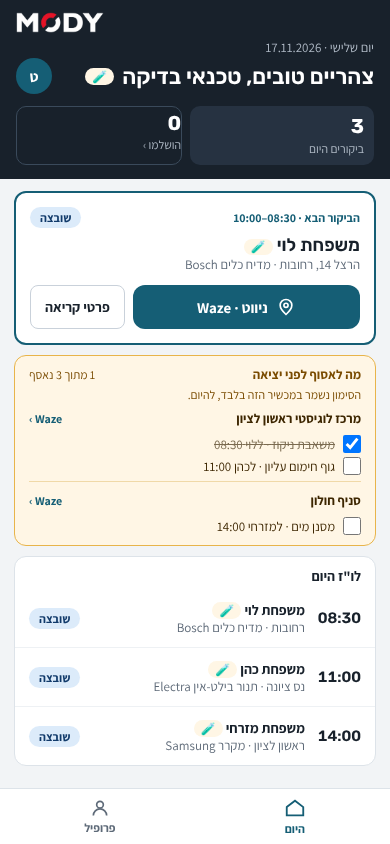
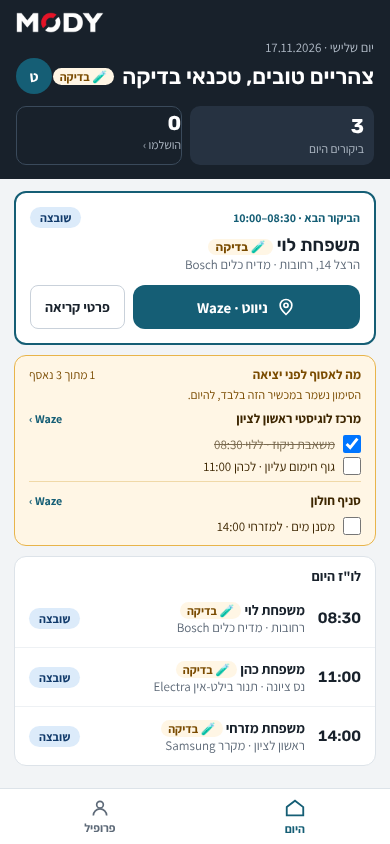
fix(tech): the test-data marker reads 'בדיקה' (owner feedback, QA T-06)
At a small size the icon-only 🧪 badge read as a pencil. TestPill
(components/ui/TestBadge.tsx) shows '🧪 בדיקה' with the accessible name
'נתוני בדיקה' and the same muted look; every technician screen uses it.
Screenshots retaken at 390 / 820 / 1440.

Claude-Session: https://claude.ai/code/session_01CCsEFqAXrUKXC3pfzB3yyJ

diff --git a/components/tech/DoneVisitView.tsx b/components/tech/DoneVisitView.tsx
@@ -1,6 +1,6 @@
 import type { ReactNode } from "react";
 import { StatusPill } from "@/components/ui/StatusPill";
-import { TEST_DATA_LABEL, TestBadge, VisitSourceLine } from "@/components/ui/TestBadge";
+import { TEST_DATA_LABEL, TestPill, VisitSourceLine } from "@/components/ui/TestBadge";
 import type { ClosedVisitDetail, MediaItem, MediaPhase } from "@/features/visits/data/types";
 import { VisitHeader } from "./VisitHeader";
 
@@ -56,7 +56,7 @@ export function DoneVisitHeader({
       title={visit.customer.name}
       trailing={
         <>
-          {visit.call.isTest && <TestBadge />}
+          {visit.call.isTest && <TestPill />}
           <StatusPill status={visit.status} />
         </>
       }
@@ -77,7 +77,7 @@ function MediaSection({ title, items }: { title: string; items: readonly MediaIt
               <span role="img" aria-label={m.isTest ? `${name} · ${TEST_DATA_LABEL}` : name} style={{ position: "absolute", inset: 0 }} />
               {m.isTest && (
                 <span aria-hidden="true" style={{ position: "absolute", bottom: 4, insetInlineStart: 4, lineHeight: 1 }}>
-                  <TestBadge />
+                  <TestPill />
                 </span>
               )}
             </div>
@@ -132,7 +132,7 @@ export function DoneVisitView({ visit, sync }: { visit: ClosedVisitDetail; sync?
             {p.isTest && (
               <>
                 {" "}
-                <TestBadge />
+                <TestPill />
               </>
             )}
           </span>
@@ -161,7 +161,7 @@ export function DoneVisitView({ visit, sync }: { visit: ClosedVisitDetail; sync?
               <span aria-hidden="true">🎙 </span>
               הקלטה <span className="num">{recordingLabel(rec)}</span>
             </span>
-            {visit.isTest && <TestBadge />}
+            {visit.isTest && <TestPill />}
             <span>· אי אפשר להשמיע אותה אחרי שהביקור נסגר בשרת</span>
           </div>
         )}

diff --git a/components/ui/TestBadge.tsx b/components/ui/TestBadge.tsx
@@ -17,6 +17,22 @@ export function TestBadge({ label = false }: { label?: boolean }) {
   );
 }
 
+/**
+ * The test-data pill (D47, SIM-15 to SIM-19; owner feedback 2026-11-17 on the technician home): at a
+ * small size the icon-only 🧪 badge read as a pencil (QA T-06), so the marker carries the word
+ * "בדיקה" after the 🧪. Screen readers hear "נתוני בדיקה" (the visible "בדיקה" plus a visually
+ * hidden "נתוני "), the tooltip says the same. Same muted look as TestBadge; any screen may use it.
+ */
+export function TestPill() {
+  return (
+    <span className="pill" title={TEST_DATA_LABEL} style={{ background: "var(--warn-bg)", color: "var(--warn-fg)", padding: "1px 7px", whiteSpace: "nowrap" }}>
+      <span aria-hidden="true">🧪 </span>
+      <span className="sr-only">נתוני </span>
+      בדיקה
+    </span>
+  );
+}
+
 /** The simulator's label (SIM-14), shared by visits and by received invitations. */
 const SIMULATOR_SOURCE_LABEL = "🧪 זימון בדיקה";
 

diff --git a/app/(tech)/tech/visit/[id]/page.tsx b/app/(tech)/tech/visit/[id]/page.tsx
@@ -7,7 +7,7 @@ import { VisitHistory } from "@/components/tech/VisitHistory";
 import { VisitInfoCard, VisitPickup, VisitProblem } from "@/components/tech/VisitInfo";
 import { PlaceWazeLink, VisitContactTiles } from "@/components/tech/VisitLinks";
 import { StatusPill } from "@/components/ui/StatusPill";
-import { TestBadge, VisitSourceLine } from "@/components/ui/TestBadge";
+import { TestPill, VisitSourceLine } from "@/components/ui/TestBadge";
 import { ddmm } from "@/features/calendar/data/dates";
 import { TECH_HOME_PATH } from "@/features/visits/data/paths";
 import type { VisitDetail } from "@/features/visits/data/types";
@@ -49,7 +49,7 @@ export default async function TechVisitPage({ params }: PageProps<"/tech/visit/[
   const title = visit.customer.name || `ביקור ${visit.n} · ${ddmm(visit.date)}`;
   const trailing = (
     <>
-      {visit.call.isTest && <TestBadge />}
+      {visit.call.isTest && <TestPill />}
       <StatusPill status={visit.status} />
     </>
   );

diff --git a/components/tech/VisitHistory.tsx b/components/tech/VisitHistory.tsx
@@ -1,5 +1,5 @@
 import { VISIT_STATUSES } from "@/components/ui/StatusPill";
-import { TestBadge } from "@/components/ui/TestBadge";
+import { TestPill } from "@/components/ui/TestBadge";
 import type { VisitHistoryItem } from "@/features/visits/data/types";
 
 // "↻ ביקור המשך" box on the technician visit card (docs/demo.html techCall() L519-524; TE-06).
@@ -66,7 +66,7 @@ export function VisitHistory({ items }: { items: readonly VisitHistoryItem[] }) 
             )}
             <div className="num" style={{ fontSize: 12, color: "var(--muted)", marginTop: 4, display: "flex", gap: 6, alignItems: "center" }}>
               {mediaLabel(h.media.length)}
-              {h.media.some((m) => m.isTest) && <TestBadge />}
+              {h.media.some((m) => m.isTest) && <TestPill />}
             </div>
             {h.media.length > 0 && (
               <div style={{ display: "flex", gap: 8, marginTop: 6, flexWrap: "wrap" }}>

diff --git a/components/tech/ProfileHeader.tsx b/components/tech/ProfileHeader.tsx
@@ -1,5 +1,5 @@
 import Link from "next/link";
-import { TestBadge } from "@/components/ui/TestBadge";
+import { TestPill } from "@/components/ui/TestBadge";
 import type { TechnicianProfile } from "@/features/profile/data/types";
 
 // Header of the technician's profile (docs/demo.html techProfile() head L684 and the "› חזרה"
@@ -40,7 +40,7 @@ export function ProfileHeader({ profile, backHref }: { profile: TechnicianProfil
         <div style={{ minWidth: 0 }}>
           <div style={{ display: "flex", alignItems: "center", gap: 8, flexWrap: "wrap" }}>
             <h1 style={{ fontSize: 22 }}>{t.name}</h1>
-            {profile.isTest && <TestBadge />}
+            {profile.isTest && <TestPill />}
           </div>
           <div className="sub" style={{ color: "var(--on-dark2)" }}>
             טכנאי שירות · <span dir="ltr">{t.phone}</span>

diff --git a/components/tech/MediaTiles.tsx b/components/tech/MediaTiles.tsx
@@ -7,7 +7,7 @@
 // placeholder. The demo's "+ דוגמה" tile is not part of the app (X-08). Test media carry the 🧪
 // badge (SIM-19).
 import { useEffect, useId, useRef, useState, type CSSProperties } from "react";
-import { TestBadge } from "@/components/ui/TestBadge";
+import { TestPill } from "@/components/ui/TestBadge";
 import { useCommands } from "@/features/data-access/commands-context";
 import type { MediaItem, MediaKind, MediaPhase, VisitRef } from "@/features/visits/data/types";
 import { MEDIA_PER_PHASE_MAX, type UpdateDraft } from "./WorkDraft";
@@ -73,7 +73,7 @@ function Thumb({
       </span>
       {item.isTest && (
         <span aria-hidden="true" style={{ position: "absolute", bottom: 4, insetInlineStart: 4, lineHeight: 1 }}>
-          <TestBadge />
+          <TestPill />
         </span>
       )}
       <button

diff --git a/components/tech/VisitInfo.tsx b/components/tech/VisitInfo.tsx
@@ -1,5 +1,5 @@
 import type { ReactNode } from "react";
-import { TestBadge } from "@/components/ui/TestBadge";
+import { TestPill } from "@/components/ui/TestBadge";
 import type { VisitDetail } from "@/features/visits/data/types";
 
 // Details of an open visit on the technician visit card (docs/demo.html techCall() L530-543).
@@ -75,7 +75,7 @@ export function VisitInfoCard({ visit }: { visit: VisitDetail }) {
           {cu.isTest && (
             <>
               {" "}
-              <TestBadge />
+              <TestPill />
             </>
           )}
         </span>
@@ -91,7 +91,7 @@ export function VisitInfoCard({ visit }: { visit: VisitDetail }) {
           {p.isTest && (
             <>
               {" "}
-              <TestBadge />
+              <TestPill />
             </>
           )}
         </span>

diff --git a/components/tech/TechStartHead.tsx b/components/tech/TechStartHead.tsx
@@ -1,5 +1,5 @@
 import Link from "next/link";
-import { TestBadge } from "@/components/ui/TestBadge";
+import { TestPill } from "@/components/ui/TestBadge";
 
 // The technician header of the temporary start screen and the minimal profile (Step 2 PR 2.3;
 // TEMPORARY, Step 2 plan Q18; AU-03, AU-04 PROPOSED): an optional "› חזרה" to the start screen, the
@@ -20,7 +20,7 @@ export function TechStartHead({ title, isTest, sub, backHref }: { title: string;
       )}
       <div style={{ display: "flex", alignItems: "center", gap: 8, flexWrap: "wrap", paddingTop: backHref ? 6 : 0 }}>
         <h1 style={{ fontSize: 22 }}>{title}</h1>
-        {isTest && <TestBadge />}
+        {isTest && <TestPill />}
       </div>
       {sub && (
         <div className="sub" style={{ color: "var(--on-dark2)" }}>

diff --git a/components/tech/CalendarDay.tsx b/components/tech/CalendarDay.tsx
@@ -1,6 +1,6 @@
 import Link from "next/link";
 import { VISIT_STATUSES } from "@/components/ui/StatusPill";
-import { TEST_DATA_LABEL, TestBadge } from "@/components/ui/TestBadge";
+import { TEST_DATA_LABEL, TestPill } from "@/components/ui/TestBadge";
 import type { CalendarVisit, TechWeek } from "@/features/calendar/data/types";
 import type { IsoDate } from "@/features/data-access/common";
 import { dayName, dayOfMonth, dayShort, ddmm, visitCountLabel } from "@/features/calendar/data/dates";
@@ -132,7 +132,7 @@ export function CalendarDayTimeline({
                   {v.isTest && (
                     <>
                       {" "}
-                      <TestBadge />
+                      <TestPill />
                     </>
                   )}
                 </b>

diff --git a/components/tech/SyncVisitPanel.tsx b/components/tech/SyncVisitPanel.tsx
@@ -1,4 +1,4 @@
-import { TestBadge } from "@/components/ui/TestBadge";
+import { TestPill } from "@/components/ui/TestBadge";
 import type { IsoTimestamp } from "@/features/data-access/common";
 import { DEVICE_SYNC_LABELS, type VisitDeviceSync } from "@/features/sync/data/types";
 import { attemptsLabel, itemsLabel, operationLabel, QUEUE_WARNING, queueItemRef, sizeLabel } from "./SyncLabels";
@@ -46,7 +46,7 @@ export function SyncVisitPanel({ sync, timeLabel }: { sync: VisitDeviceSync; tim
                       {op.isTest && (
                         <>
                           {" "}
-                          <TestBadge />
+                          <TestPill />
                         </>
                       )}
                       {size && (

diff --git a/components/tech/DoneList.tsx b/components/tech/DoneList.tsx
@@ -1,7 +1,7 @@
 import Link from "next/link";
 import type { ReactNode } from "react";
 import { StatusPill } from "@/components/ui/StatusPill";
-import { TestBadge } from "@/components/ui/TestBadge";
+import { TestPill } from "@/components/ui/TestBadge";
 import type { TechDayVisit } from "@/features/visits/data/types";
 
 // "הושלמו היום" (docs/demo.html techDoneList() L657-662; TE-26 CHANGE: same look, read-only, D14):
@@ -54,7 +54,7 @@ export function DoneList({ entries, pager }: { entries: readonly DoneListEntry[]
               {v.isTest && (
                 <>
                   {" "}
-                  <TestBadge />
+                  <TestPill />
                 </>
               )}
               <div className="sub">

diff --git a/components/tech/NotificationList.tsx b/components/tech/NotificationList.tsx
@@ -13,7 +13,7 @@
 // Presentational: the caller passes the DTOs with their links and formatted times.
 import Link from "next/link";
 import { useId, type ReactNode } from "react";
-import { TestBadge } from "@/components/ui/TestBadge";
+import { TestPill } from "@/components/ui/TestBadge";
 import type { AppNotification, NotificationKind } from "@/features/notifications/data/types";
 import { useNotificationState } from "./NotificationState";
 
@@ -51,7 +51,7 @@ function NotificationItem({ entry, unread }: { entry: NotificationEntry; unread:
             {n.isTest && (
               <>
                 {" "}
-                <TestBadge />
+                <TestPill />
               </>
             )}
           </span>
